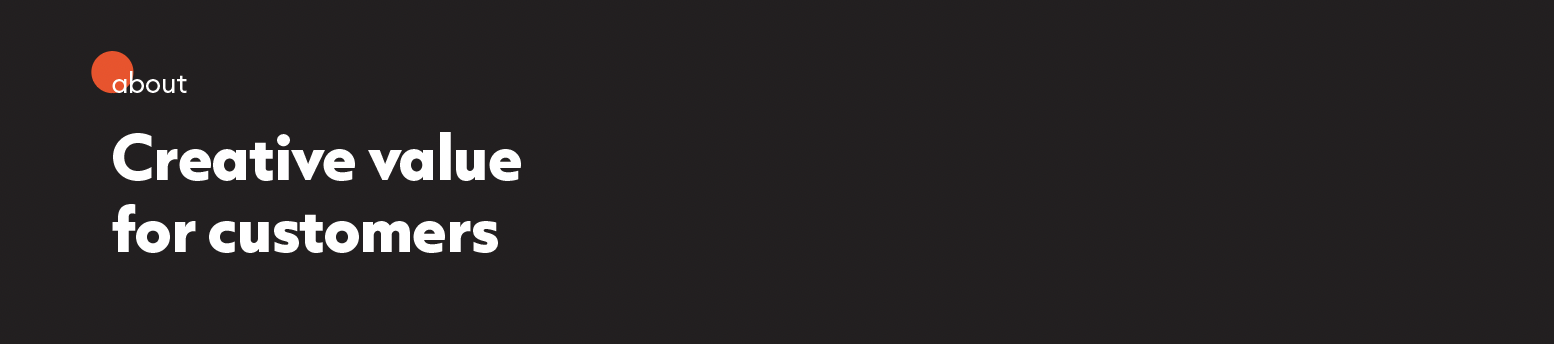
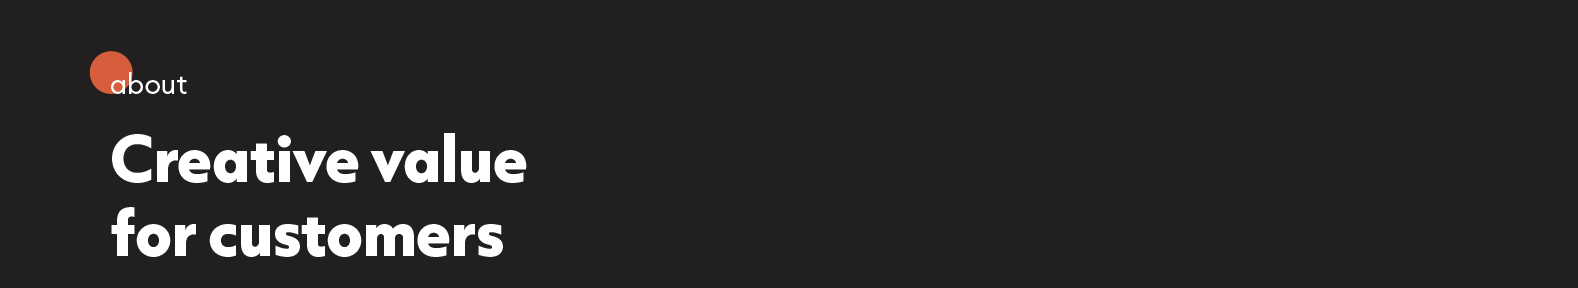
Design: 이미지 및 css 전면 수정

Changed region(s): [[0.0618, 0.375, 0.3398, 0.9062], [0.0309, 0.125, 0.1236, 0.3438]]

diff --git a/src/main/resources/static/css/about-style.css b/src/main/resources/static/css/about-style.css
@@ -88,12 +88,12 @@ a {
 .navbar_toggleBtn :hover {
     color: var(--hover-color);
 }
-
 .about-top{
     background-color: var(--background-color);
 }
 .imageTop {
-    padding-top: 175px;
+    padding-top: 180px;
+    padding-left: 2px;
     margin: 0 auto;
     display: block;
     width: 80%;
@@ -103,6 +103,7 @@ a {
     background-color: var(--background-color);
 }
 .imageMiddle {
+    padding-top: 100px;
     padding-bottom: 100px;
     margin: 0 auto;
     display: block;
@@ -113,7 +114,7 @@ a {
     background-color: var(--background-color);
 }
 .imageBottom {
-    padding-bottom: 100px;
+    padding-bottom: 200px;
     margin: 0 auto;
     display: block;
     width: 80%;
@@ -132,6 +133,7 @@ a {
     width: 90%;
     background-color: white;
 }
+
 footer {
     display: block;
     height: 100px;

diff --git a/src/main/resources/static/css/CS-style.css b/src/main/resources/static/css/CS-style.css
@@ -86,36 +86,27 @@ a {
 .navbar_toggleBtn :hover {
     color: var(--hover-color);
 }
-
-
 .CS_top {
     background-color: var(--background-color);
 }
 .imageTop {
-    padding-top: 189px;
+    padding-top: 196px;
     padding-bottom: 70px;
     margin: 0 auto;
     display: block;
-    width: 80%;
+    width: 79%;
     background-color: var(--background-color);
 }
 .CS_bottom {
     background-color: var(--background-color);
 }
 .imageBottom {
-    padding-top: 100px;
+    padding-top: 110px;
     padding-bottom: 40px;
     margin: 0 auto;
     display: block;
     width: 80%;
     background-color: var(--background-color);
-}
-
-.div_test {
-    font-size: 40px;
-    color: black;
-    text-align: center;
-    padding-top: 300px;
 }
 
 footer {

diff --git a/src/main/resources/static/css/IT_PG-style.css b/src/main/resources/static/css/IT_PG-style.css
@@ -86,15 +86,12 @@ a {
 .navbar_toggleBtn :hover {
     color: var(--hover-color);
 }
-
-
 .IT_PG-top {
     background-color: var(--background-color);
 }
 .imageTop {
-    padding-top: 175px;
-    padding-bottom: 60px;
-    padding-left: 1px;
+    padding-top: 190px;
+    padding-bottom: 70px;
     margin: 0 auto;
     display: block;
     width: 80%;
@@ -104,7 +101,7 @@ a {
     background-color: var(--background-color);
 }
 .imageMiddle {
-    padding-top: 80px;
+    padding-top: 100px;
     padding-bottom: 40px;
     padding-left: 6px;
     margin: 0 auto;
@@ -122,9 +119,6 @@ a {
     width: 90%;
     background-color: #EDEDEE;
 }
-
-
-
 
 footer {
     display: block;

diff --git a/src/main/resources/static/css/team-style.css b/src/main/resources/static/css/team-style.css
@@ -92,23 +92,22 @@ a {
     background-color: var(--background-color);
 }
 .imageMain {
-    padding-top: 105px;
+    padding-top: 183px;
+    padding-left: 2px;
     margin: 0 auto;
     display: block;
     width: 80%;
-    padding-bottom: 50px;
 }
 .team-serve{
     background-color:  var(--background-color);
 }
 .imageServe{
-    padding-top: 75px;
+    padding-top: 190px;
     padding-bottom: 200px;
     margin: 0 auto;
     display: flex;
     width: 80%;
 }
-
 
 footer {
     display: block;
